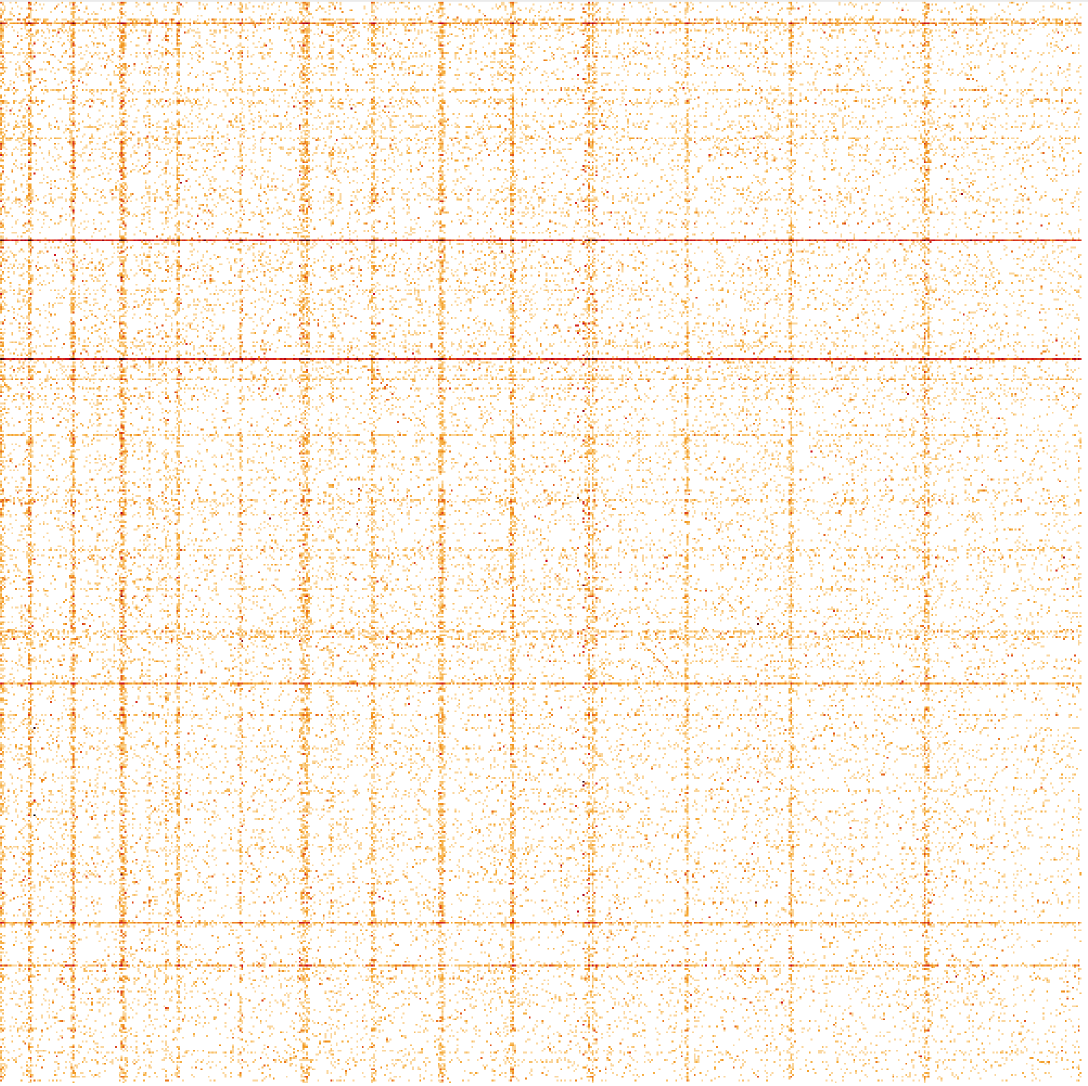
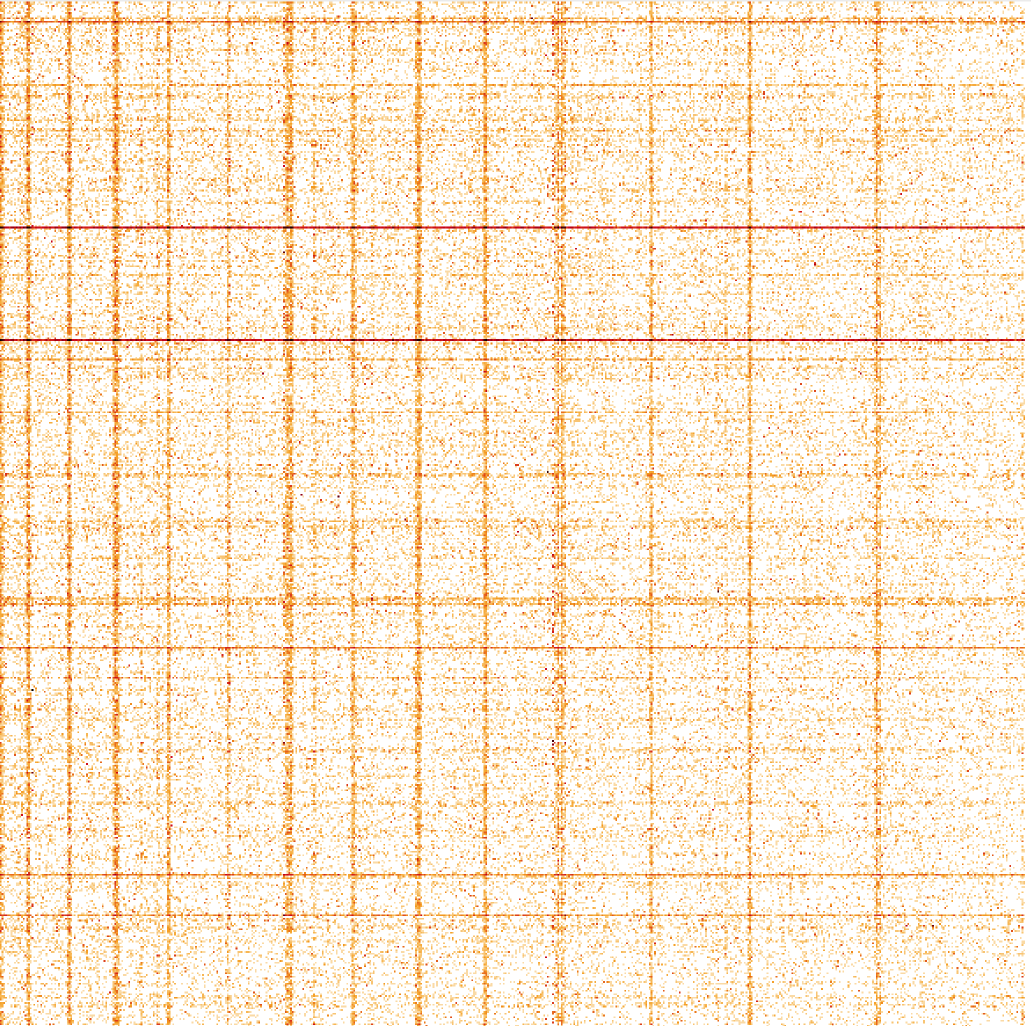
add rna axis aggregation

diff --git a/RADICL-Trevor/README.md b/RADICL-Trevor/README.md
@@ -21,9 +21,9 @@ In this table, all previously generated by Trevor RADICL-seq data is aggregated 
 
 This is a Hi-C style heatmap of all final valid pairs in a given dataset. The x-axis is the DNA genomic axes, and the y-axis is the RNA one. I generated .mcool files which can be easily visualized by [Higlass](https://higlass.io/). Below is a static snapshot image, the .mcool files are in [files](files/) directory.
 
-There are a couple of prominent horizontal lines that I would like to follow up on [the lines](#2.1.-The-lines). I will send their locations to Trevor and also check if they match the ones we saw in iMARGI data. This will be very interesting. 
+There are a couple of prominent horizontal lines that I would like to follow up on ([the lines](#21-The-lines)). I will send their locations to Trevor and also check if they match the ones we saw in iMARGI data. This will be very interesting. 
 
-I have also downsampled the data to get a better understanding of how much coverage we need [downsampling](#5.-Downsampling)
+I have also downsampled the data to get a better visual understanding of how much coverage we need: [downsampling](#5-Downsampling).
 
 
 #### Aggregated data:
@@ -100,6 +100,8 @@ For those with the most reads, here are their genomic tracks:
 
 I downsampeled the Aggregated data by randomly removing **x%** of the final valid RNA tags (and all of their corresponding DNA tags in case of multimapping.) Consequently, the heatmaps become sparser (whither)
 
-| 50% rna (~1.5m pairs )  | 20% rna (~0.4m pairs )  |
+| 50% rna (~1.5m pairs )  | 20% rna (~0.6m pairs )  |
 | :--: | :--: |
 | ![](figs/ds1.png) | ![](figs/ds2.png) |
+| 10% rna (~0.3m pairs )  | 5% rna (~0.15m pairs )  |
+| ![](figs/ds3.png) | ![](figs/ds4.png) |
